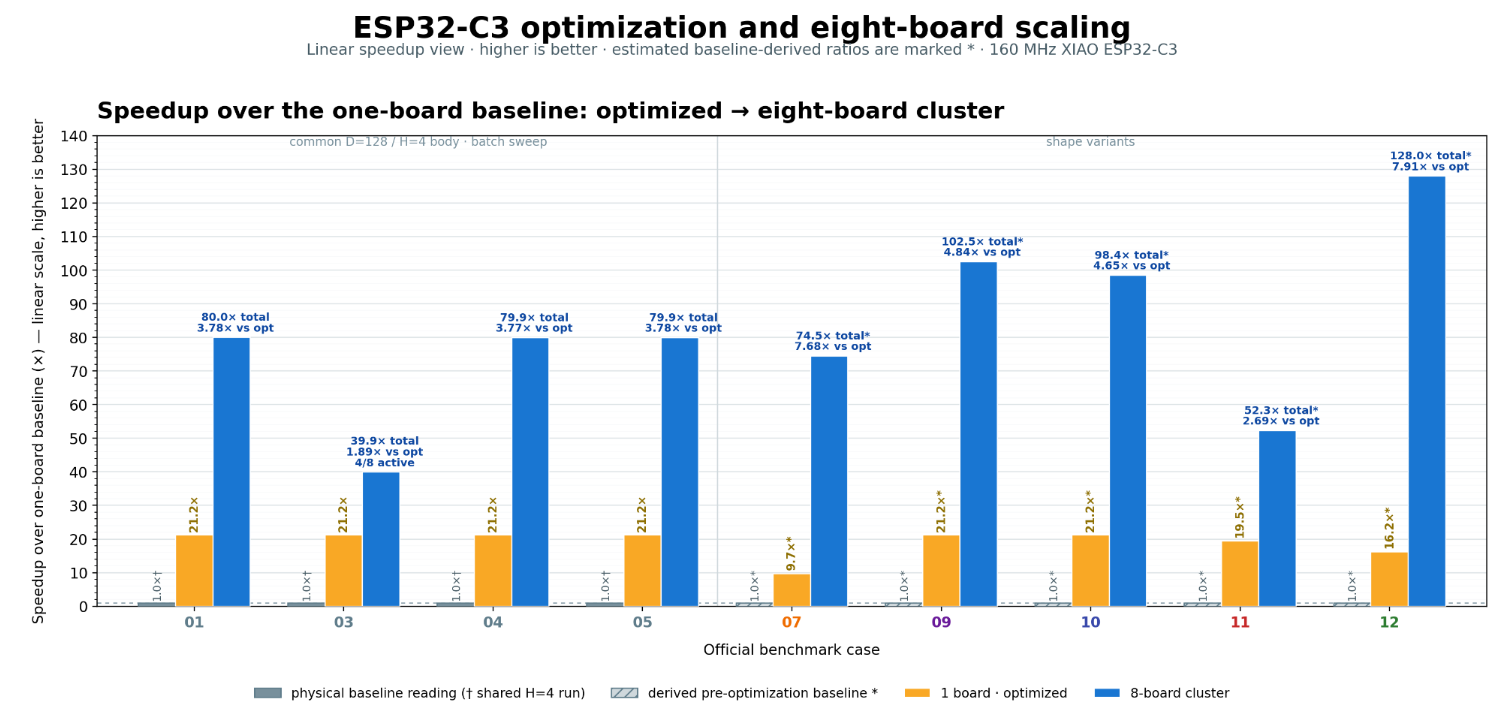
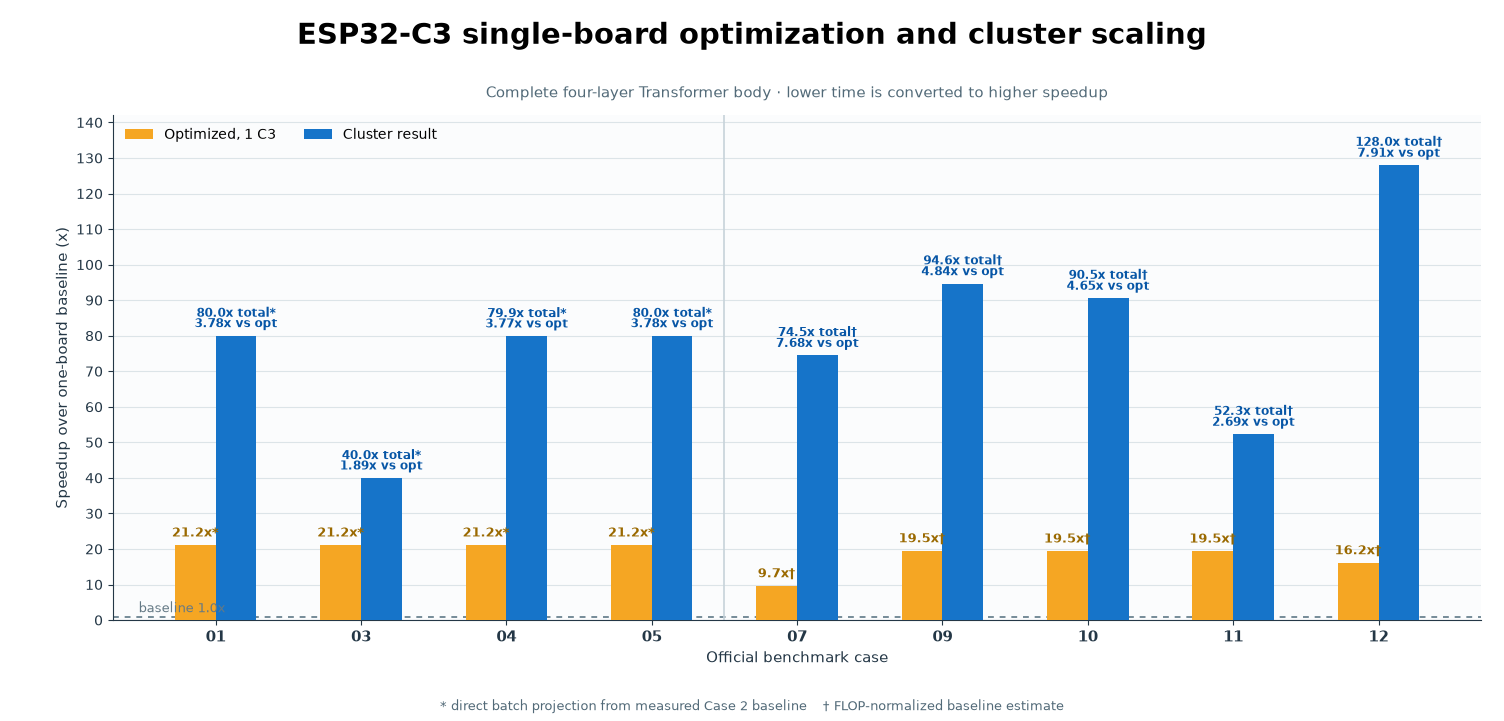
docs: add benchmark comparison table

diff --git a/docs/assets/build_results_figure.py b/docs/assets/build_results_figure.py
@@ -1,0 +1,125 @@
+#!/usr/bin/env python3
+"""Regenerate the README cross-case result figure from benchmarks/README.md."""
+
+from pathlib import Path
+
+import matplotlib
+
+matplotlib.use("Agg")
+import matplotlib.pyplot as plt
+import numpy as np
+
+
+CASES = ["01", "03", "04", "05", "07", "09", "10", "11", "12"]
+BASELINE = np.array(
+    [2697.6, 168.6, 674.4, 5395.2, 295.05, 2697.6, 2697.6, 2697.6, 547.95]
+)
+OPTIMISED = np.array(
+    [127.36, 7.96, 31.84, 254.72, 30.427, 138.027, 138.536, 138.610, 33.879]
+)
+CLUSTER = np.array(
+    [33.713, 4.218, 8.438, 67.451, 3.963, 28.508, 29.793, 51.604, 4.282]
+)
+MARKERS = ["*", "*", "*", "*", "†", "†", "†", "†", "†"]
+
+
+def main() -> None:
+    x = np.arange(len(CASES))
+    one_board_speedup = BASELINE / OPTIMISED
+    cluster_speedup = BASELINE / CLUSTER
+    cluster_vs_optimised = OPTIMISED / CLUSTER
+
+    plt.rcParams.update(
+        {
+            "font.family": "DejaVu Sans",
+            "axes.edgecolor": "#243746",
+            "axes.labelcolor": "#243746",
+            "xtick.color": "#243746",
+            "ytick.color": "#243746",
+        }
+    )
+    fig, ax = plt.subplots(figsize=(15.04, 7.21), dpi=100)
+    fig.patch.set_facecolor("white")
+    ax.set_facecolor("#fbfcfd")
+
+    width = 0.28
+    opt_bars = ax.bar(
+        x - width / 2,
+        one_board_speedup,
+        width,
+        color="#f5a623",
+        label="Optimized, 1 C3",
+        zorder=3,
+    )
+    cluster_bars = ax.bar(
+        x + width / 2,
+        cluster_speedup,
+        width,
+        color="#1674c9",
+        label="Cluster result",
+        zorder=3,
+    )
+
+    ax.axhline(1, color="#758b98", linewidth=1.4, linestyle=(0, (3, 3)), zorder=2)
+    ax.text(-0.53, 2.2, "baseline 1.0x", color="#647985", fontsize=9)
+    ax.axvline(3.5, color="#c7d3da", linewidth=1.2)
+
+    for i, (opt_bar, cluster_bar) in enumerate(zip(opt_bars, cluster_bars)):
+        marker = MARKERS[i]
+        ax.text(
+            opt_bar.get_x() + opt_bar.get_width() / 2,
+            opt_bar.get_height() + 1.5,
+            f"{one_board_speedup[i]:.1f}x{marker}",
+            ha="center",
+            va="bottom",
+            fontsize=9,
+            fontweight="bold",
+            color="#9a6900",
+        )
+        ax.text(
+            cluster_bar.get_x() + cluster_bar.get_width() / 2,
+            cluster_bar.get_height() + 1.5,
+            f"{cluster_speedup[i]:.1f}x total{marker}\n{cluster_vs_optimised[i]:.2f}x vs opt",
+            ha="center",
+            va="bottom",
+            fontsize=8.5,
+            fontweight="bold",
+            color="#0756a6",
+            linespacing=1.05,
+        )
+
+    ax.set_ylim(0, 142)
+    ax.set_yticks(np.arange(0, 141, 10))
+    ax.set_xticks(x, CASES, fontsize=11, fontweight="bold")
+    ax.set_xlabel("Official benchmark case", fontsize=11)
+    ax.set_ylabel("Speedup over one-board baseline (x)", fontsize=11)
+    ax.grid(axis="y", color="#dce4e8", linewidth=0.8, zorder=0)
+    ax.spines[["top", "right"]].set_visible(False)
+    ax.legend(loc="upper left", frameon=False, ncol=2, fontsize=10)
+
+    fig.suptitle(
+        "ESP32-C3 single-board optimization and cluster scaling",
+        fontsize=21,
+        fontweight="bold",
+        y=0.97,
+    )
+    ax.set_title(
+        "Complete four-layer Transformer body · lower time is converted to higher speedup",
+        fontsize=11,
+        color="#526a78",
+        pad=13,
+    )
+    fig.text(
+        0.5,
+        0.015,
+        "* direct batch projection from measured Case 2 baseline    † FLOP-normalized baseline estimate",
+        ha="center",
+        fontsize=9,
+        color="#526a78",
+    )
+    fig.subplots_adjust(left=0.075, right=0.985, top=0.84, bottom=0.14)
+    fig.savefig(Path(__file__).with_name("optimisation-and-eight-board-scaling.png"))
+
+
+if __name__ == "__main__":
+    main()

diff --git a/README.md b/README.md
@@ -25,12 +25,22 @@ numerical gate.
 
 ## Results
 
-| Configuration | Result |
-|---|---:|
-| One C3 | `42.15 s -> 1.996 s` — **21.1x faster** |
-| Two C3s, one complete input | `1.996 s -> 1.276 s` — **1.56x faster** |
-| Eight Wi-Fi workers | **8.00x scaling** vs one identical tiled worker |
-| Cases 1–5 eight-board sweep | **213/213 forwards passed** |
+| Case | Baseline, 1 C3 | Optimized, 1 C3 | Cluster result | Total improvement | Gate |
+|---:|---:|---:|---:|---:|---:|
+| [01](benchmarks/case-01/) | 2,697.6 s `*` | 127.36 s | **33.713 s** (8 C3s) | **80.0x** `*` | 64/64 pass |
+| [02](benchmarks/case-02/) | 42.15 s | 1.990 s | **1.276 s** (2 C3s) | **33.0x** | pass |
+| [03](benchmarks/case-03/) | 168.6 s `*` | 7.96 s | **4.218 s** (4/8 active) | **40.0x** `*` | 4/4 pass |
+| [04](benchmarks/case-04/) | 674.4 s `*` | 31.84 s | **8.438 s** (8 C3s) | **79.9x** `*` | 16/16 pass |
+| [05](benchmarks/case-05/) | 5,395.2 s `*` | 254.72 s | **67.451 s** (8 C3s) | **80.0x** `*` | 128/128 pass |
+| [07](benchmarks/case-07/) | 295.05 s `†` | 30.427 s | **3.963 s** (8 C3s) | **74.5x** `†` | 64/64 pass |
+| [09](benchmarks/case-09/) | 2,697.6 s `†` | 138.027 s | **28.508 s** (8 C3s) | **94.6x** `†` | 64/64 pass |
+| [10](benchmarks/case-10/) | 2,697.6 s `†` | 138.536 s | **29.793 s** (8 C3s) | **90.5x** `†` | 64/64 pass |
+| [11](benchmarks/case-11/) | 2,697.6 s `†` | 138.610 s | **51.604 s** (8 C3s) | **52.3x** `†` | 64/64 pass |
+| [12](benchmarks/case-12/) | 547.95 s `†` | 33.879 s | **4.282 s** (8 C3s) | **128.0x** `†` | 64/64 pass |
+
+`*` Direct batch projection from the measured Case 2 baseline. `†` FLOP-normalized
+baseline estimate. All optimized and cluster times are physical measurements of the
+complete four-layer body; host transfer is excluded consistently.
 
 ![Case 2 single-board optimization from 42.15 seconds to 1.996 seconds](docs/assets/case-2-single-board-optimisation.png)
 
@@ -46,8 +56,8 @@ derived values, and projections are labelled separately in the
 
 ![Single-board optimization and eight-board scaling across official benchmark cases](docs/assets/optimisation-and-eight-board-scaling.png)
 
-*Cross-case results. Asterisks mark speedups that use a derived pre-optimization
-baseline; the optimized and eight-board measurements are physical runs.*
+*Cross-case results. `*` marks direct batch projections and `†` marks
+FLOP-normalized baseline estimates; optimized and cluster times are physical runs.*
 
 ## Main optimizations
 

diff --git a/docs/DEVPOST_PROJECT_DESCRIPTION.md b/docs/DEVPOST_PROJECT_DESCRIPTION.md
@@ -182,8 +182,8 @@ are not used as the primary measured headline here.
 
 ![Single-board optimization and eight-board scaling across official benchmark cases](assets/optimisation-and-eight-board-scaling.png)
 
-*Measured optimized and eight-board results across the completed official cases.
-Asterisks identify ratios that depend on a derived pre-optimization baseline.*
+*Measured optimized and cluster results across the completed official cases. `*`
+marks direct batch projections and `†` marks FLOP-normalized baseline estimates.*
 
 ## Why this was difficult
 
